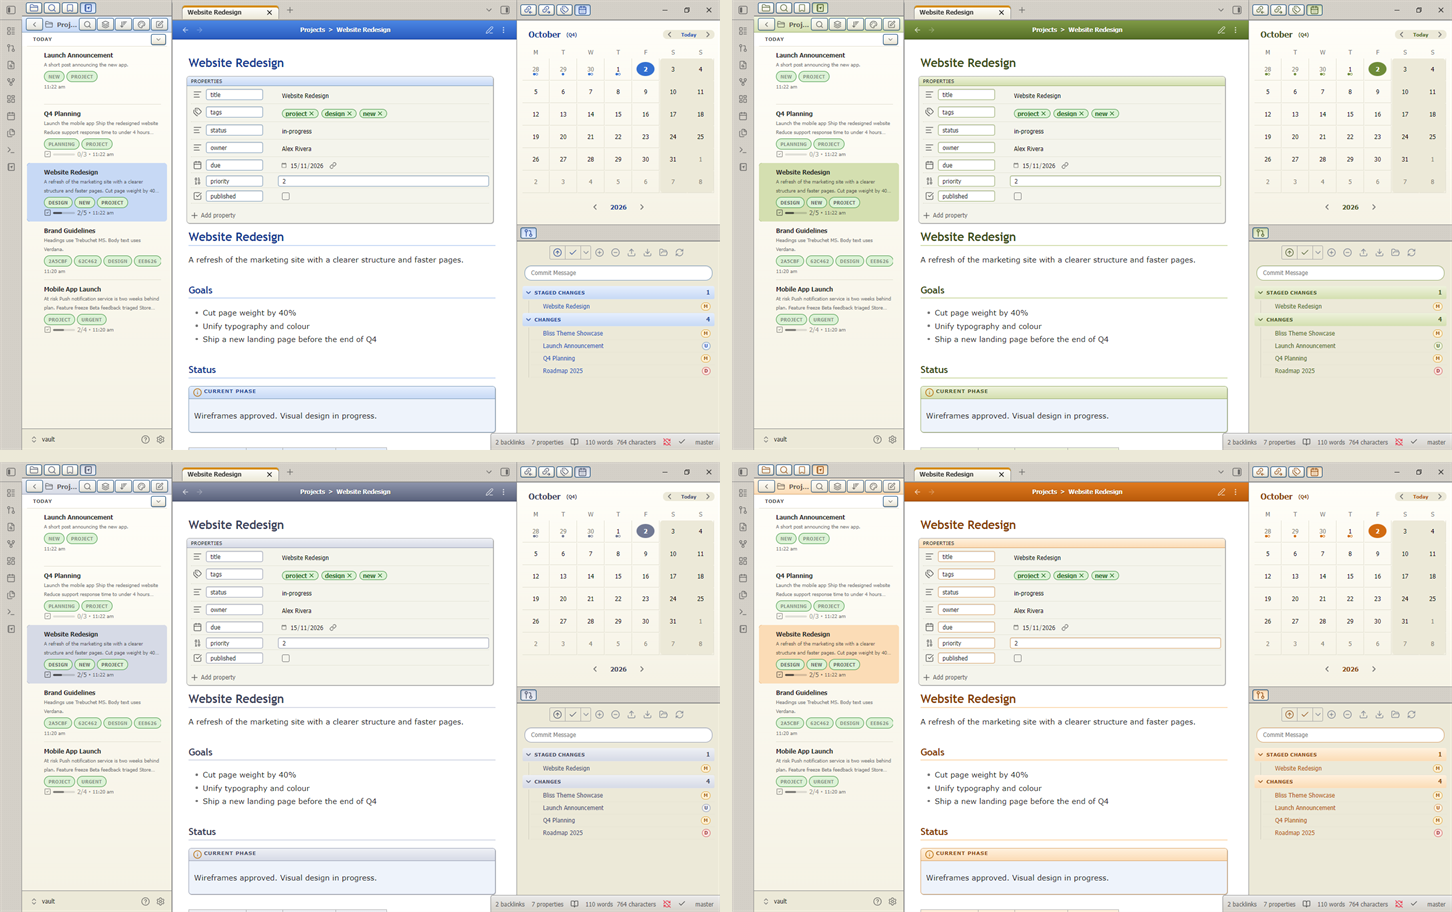
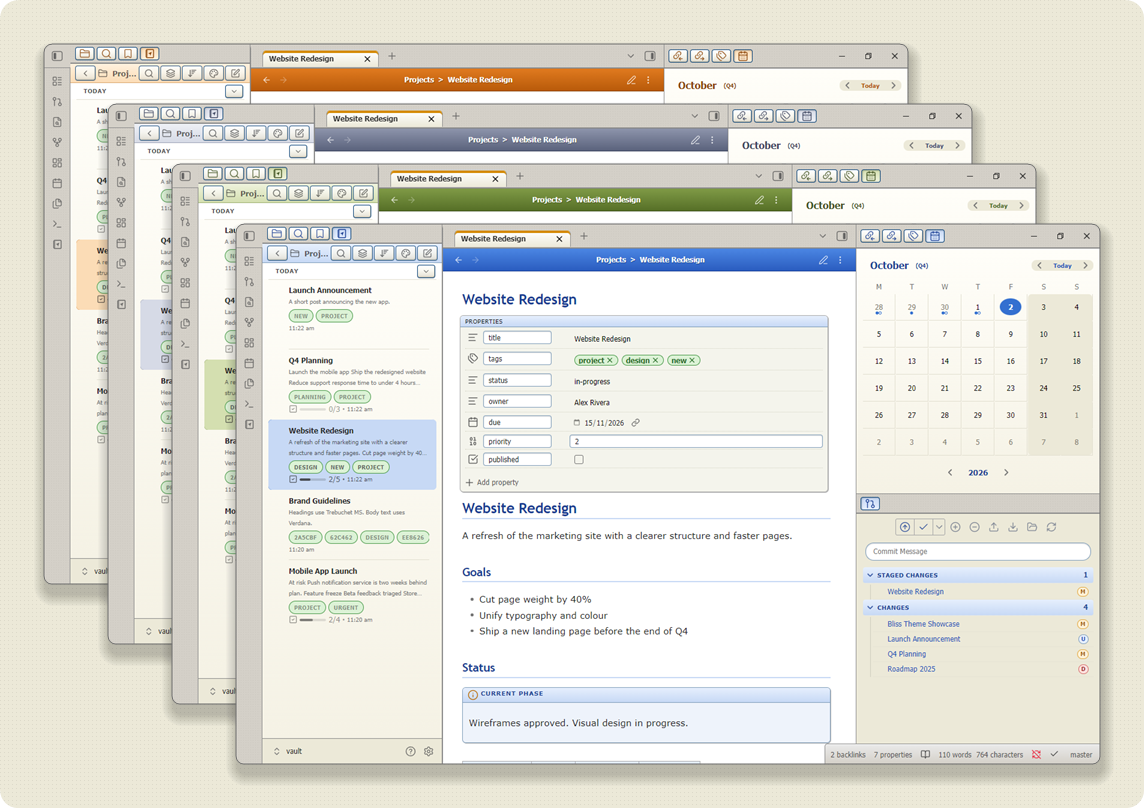
Present screenshots as cascaded desk panels; add code panel; drop sidebars image

diff --git a/README.md b/README.md
@@ -2,7 +2,7 @@
 
 Obsidian, but it's 2001. Bevelled buttons, Luna blues and the gloriously boring look of the early web.
 
-Bliss is a theme for [Obsidian](https://obsidian.md/) on desktop. It pairs the glossy blues and soft greens of Windows XP with a warm beige desk and the tidy intranet-portal layout of the early web. A slate dark mode is included for late nights.
+Bliss is a theme for [Obsidian](https://obsidian.md/) on desktop. It pairs the glossy blues and soft greens of taking inspiration from the early Websites and Windows design with a warm beige desk and the tidy intranet-portal layout of the early web. A slate dark mode is included for late nights. Bliss captures the ethos of early y2k and blends modern design cues for a retro-mod.
 
 ![Bliss banner](docs/Images/banner.png)
 
@@ -33,9 +33,9 @@ Callouts, code blocks and tables
 
 ![Notes](docs/Images/bliss-notes.png)
 
-Notebook Navigator, calendar and Obsidian Git
+Code blocks with language labels
 
-![Sidebars](docs/Images/bliss-sidebars.png)
+![Code blocks](docs/Images/bliss-code.png)
 
 Glossy settings: toggles, dropdowns and inputs in light and dark
 
